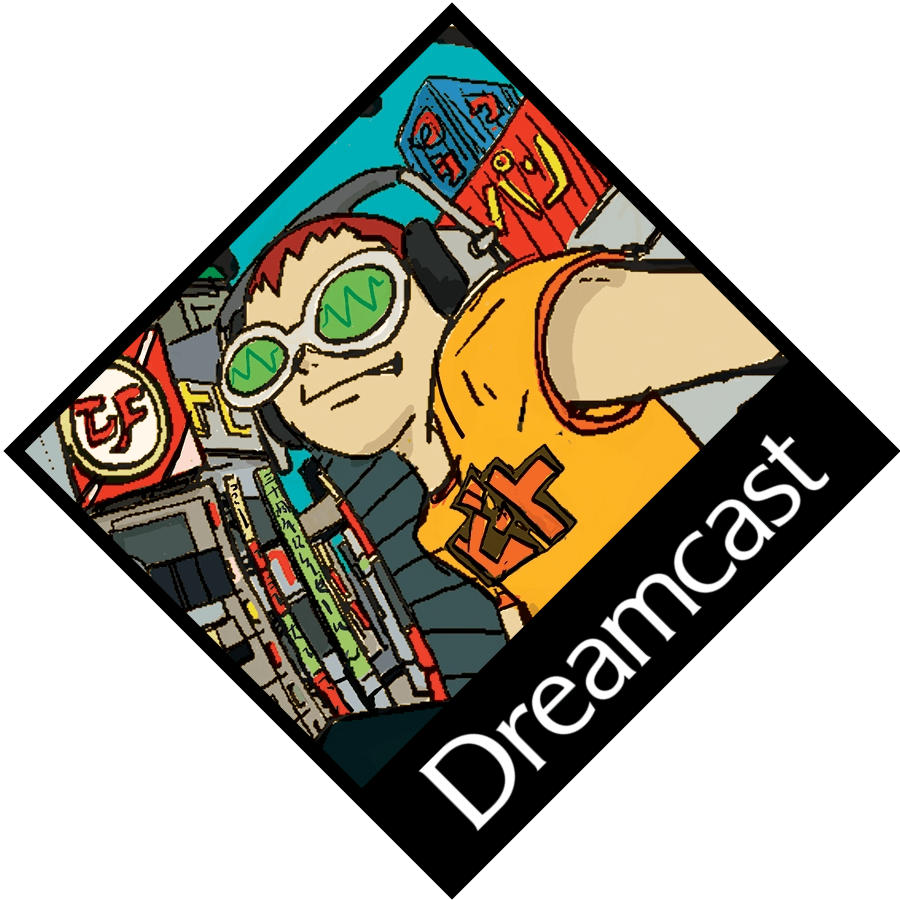
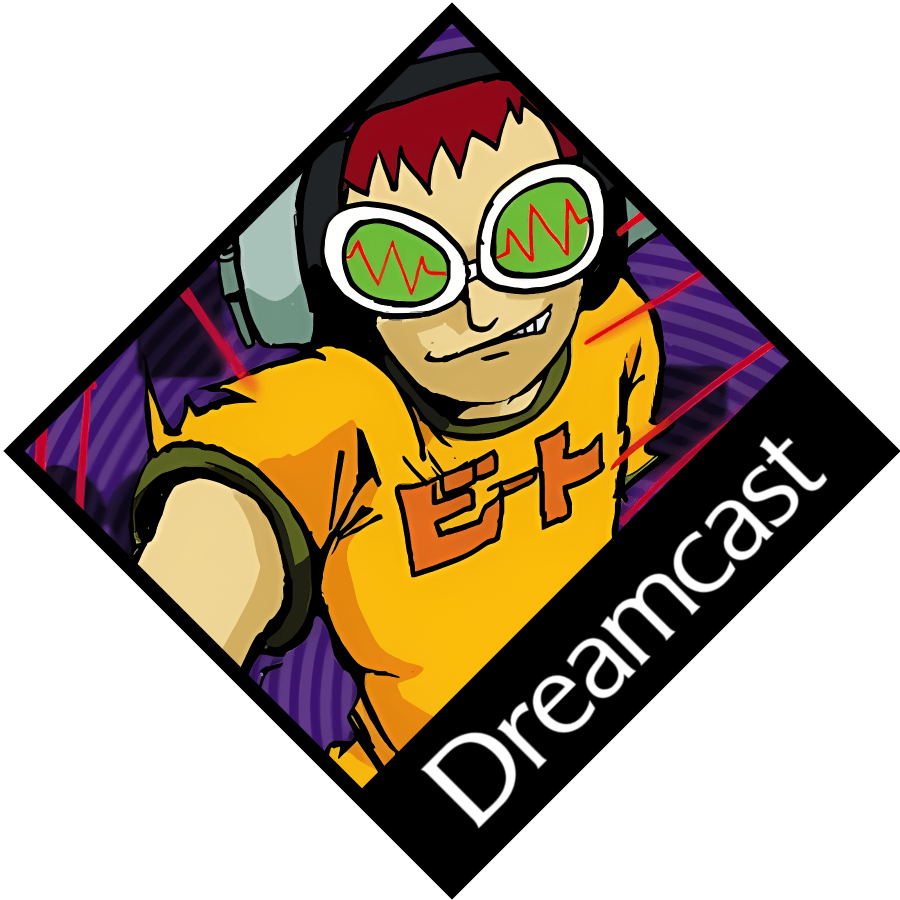
Update
- XML Cleanup
- Update `dreamcast`, `neogeo`, & `wii` platform images

diff --git a/README.md b/README.md
@@ -5,9 +5,9 @@ Minimal ES-DE theme created by [Jetup13](https://github.com/Jetup13)
 Features|Note
 :-------|:----
 Aspect Ratio Support|16:9, 16:10, 19.5:9, 21:9, 4:3, & 1:1
-6x System Variations|
+7x System Variations|
 6x Color Schemes|White, Baby Blue, Mint, Cardinal Red, Fuchsia Pink, Orange
-System View Descriptions|
+Multilingual Support|
 
 
 System View|Gamelist View
@@ -18,7 +18,7 @@ System View|Gamelist View
 
 Planned
 :------|
-Multilingual Support
+Add hack system platforms
 
 Credits|Info
 :------|:---
